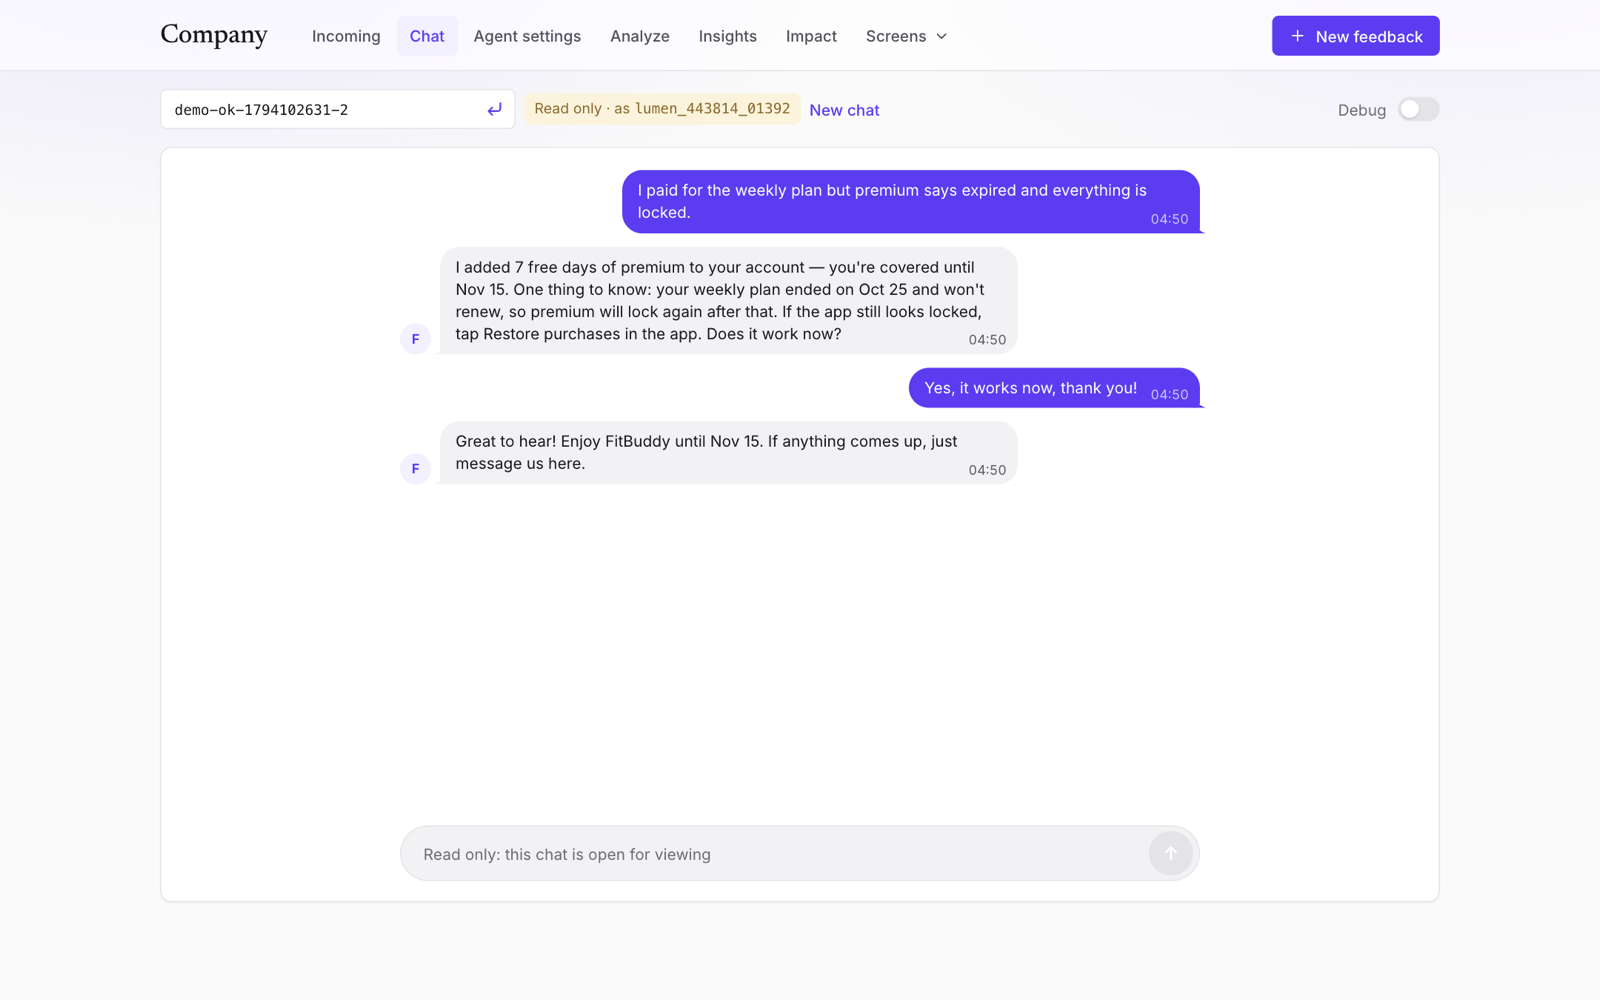
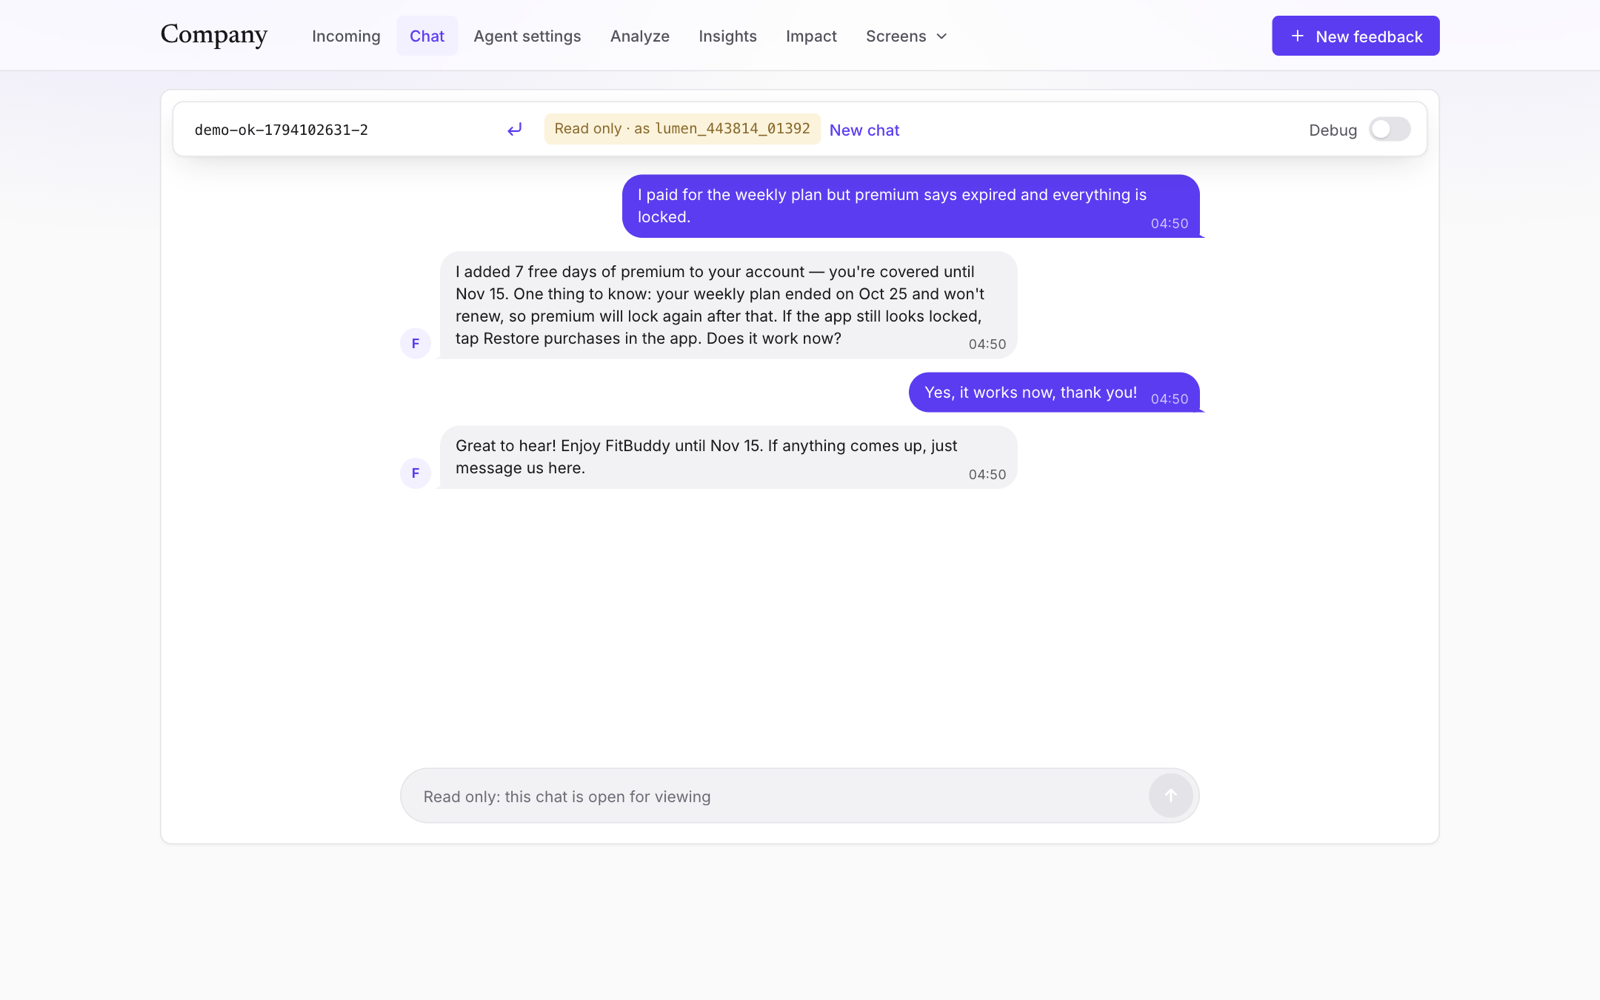
Drop page-name titles; float the Chat controls as glass
Incoming, Agent settings and Insights lose their visible titles: the nav
already names them. The Chat id bar and the Debug switch now sit in a glass
panel over the top of the chat frame, with messages scrolling under it.

Claude-Session: https://claude.ai/code/session_01X7Eukq8YNNVaHxwu6bg8h1

diff --git a/resolve/static/ui/Chat.dc.html b/resolve/static/ui/Chat.dc.html
@@ -62,6 +62,13 @@ input::placeholder{color:var(--ink-3)}
 .bigcaret ~ #msg{caret-color:transparent}
 @keyframes caret{0%,50%{opacity:1}50.01%,100%{opacity:0}}
 @media (prefers-reduced-motion:reduce){.bigcaret{animation:none}}
+.chatlog{flex:1 1 auto;overflow-y:auto;padding:76px 20px 12px;scroll-padding-top:76px}
+.chatbar{position:absolute;top:10px;left:10px;right:10px;z-index:3;display:flex;flex-wrap:wrap;align-items:center;gap:8px 14px;padding:6px 14px 6px 6px;border:1px solid var(--line);border-radius:var(--r-card);background:var(--glass-strong);-webkit-backdrop-filter:var(--glass-strong-filter);backdrop-filter:var(--glass-strong-filter);box-shadow:var(--shadow-float);font-size:14px;color:var(--ink-2)}
+.chatbar .idbar{border-color:transparent;background:var(--glass)}
+.chatbar .idbar:focus-within{background:var(--surface);border-color:var(--accent-line)}
+.chatbar input::placeholder{color:var(--ink-2)}
+@media (max-width:640px){.chatlog{padding-top:112px;scroll-padding-top:112px}.chatbar form{display:contents!important}.chatbar .idbar{flex:1 1 100%;width:auto}.ro-as{display:none}}
+@media (prefers-reduced-transparency:reduce){.chatbar{background:var(--surface);-webkit-backdrop-filter:none;backdrop-filter:none}}
 .idbar{display:inline-flex;align-items:center;gap:4px;width:320px;max-width:100%;height:36px;padding:0 4px 0 12px;border:1px solid var(--line);border-radius:var(--r-ctl);background:var(--surface);transition:border-color .15s,box-shadow .15s}
 .idbar:focus-within{border-color:var(--accent-line);box-shadow:0 0 0 4px var(--accent-ring)}
 .idbar input{flex:1;min-width:0;height:100%;border:0;outline:0;padding:0;background:transparent;color:var(--ink);font-family:ui-monospace,SFMono-Regular,Menlo,monospace;font-size:13px}
@@ -135,17 +142,16 @@ input::placeholder{color:var(--ink-3)}
 </header>
 
 <main style="max-width: 1200px; margin: 0 auto; padding: 16px 24px 48px; display: flex; flex-direction: column; gap: 16px">
-<div style="display: flex; flex-wrap: wrap; align-items: center; gap: 10px 22px; font-size:14px; color: var(--ink-3)">
-<sc-if value="{{ design }}"><span>as <span style="font-family: ui-monospace, SFMono-Regular, Menlo, monospace; font-size:13px; color: var(--ink-2)">{{ user }}</span></span></sc-if><sc-if value="{{ live }}"><form onSubmit="{{ openById }}" style="display: inline-flex; align-items: center; gap: 8px; margin: 0"><span class="idbar"><label for="chat-id" class="sr">Chat or ticket id</label><input id="chat-id" type="text" autocomplete="off" spellcheck="false" placeholder="chat or ticket id, e.g. f-0004" value="{{ idDraft }}" onChange="{{ onIdDraft }}"><button type="submit" aria-label="Open" title="Open"><svg width="16" height="16" viewBox="0 0 24 24" fill="none" stroke="currentColor" stroke-width="2.2" stroke-linecap="round" stroke-linejoin="round" aria-hidden="true"><path d="M9 10l-5 5 5 5"></path><path d="M20 4v7a4 4 0 0 1-4 4H4"></path></svg></button></span><sc-if value="{{ readOnly }}"><span class="ro">Read only · as <span style="font-family: ui-monospace, SFMono-Regular, Menlo, monospace">{{ user }}</span></span></sc-if><button type="button" class="linkbtn" style="font-size:14px" onClick="{{ newSession }}">New chat</button></form></sc-if><sc-if value="{{ idErr }}"><span role="alert" style="color: var(--bad)">{{ idErr }}</span></sc-if>
+<div style="display: flex; flex-wrap: wrap; align-items: stretch; gap: 20px">
+<section class="card" aria-label="Chat with the FitBuddy assistant" style="position: relative; flex: 999 1 520px; min-width: 0; height: 680px; display: flex; flex-direction: column; overflow: hidden">
+<div class="chatbar">
+<sc-if value="{{ design }}"><span>as <span style="font-family: ui-monospace, SFMono-Regular, Menlo, monospace; font-size:13px; color: var(--ink-2)">{{ user }}</span></span></sc-if><sc-if value="{{ live }}"><form onSubmit="{{ openById }}" style="display: inline-flex; align-items: center; gap: 8px; margin: 0"><span class="idbar"><label for="chat-id" class="sr">Chat or ticket id</label><input id="chat-id" type="text" autocomplete="off" spellcheck="false" placeholder="chat or ticket id, e.g. f-0004" value="{{ idDraft }}" onChange="{{ onIdDraft }}"><button type="submit" aria-label="Open" title="Open"><svg width="16" height="16" viewBox="0 0 24 24" fill="none" stroke="currentColor" stroke-width="2.2" stroke-linecap="round" stroke-linejoin="round" aria-hidden="true"><path d="M9 10l-5 5 5 5"></path><path d="M20 4v7a4 4 0 0 1-4 4H4"></path></svg></button></span><sc-if value="{{ readOnly }}"><span class="ro">Read only<span class="ro-as"> · as <span style="font-family: ui-monospace, SFMono-Regular, Menlo, monospace">{{ user }}</span></span></span></sc-if><button type="button" class="linkbtn" style="font-size:14px" onClick="{{ newSession }}">New chat</button></form></sc-if><sc-if value="{{ idErr }}"><span role="alert" style="color: var(--bad)">{{ idErr }}</span></sc-if>
 <span style="margin-left: auto; display: inline-flex; align-items: center; gap: 10px">
 <span id="dbg-l">Debug</span>
 <button type="button" role="switch" aria-checked="{{ debug }}" aria-labelledby="dbg-l" class="{{ swCls }}" onClick="{{ toggleDebug }}"></button>
 </span>
 </div>
-
-<div style="display: flex; flex-wrap: wrap; align-items: stretch; gap: 20px">
-<section class="card" aria-label="Chat with the FitBuddy assistant" style="flex: 999 1 520px; min-width: 0; height: 680px; display: flex; flex-direction: column; overflow: hidden">
-<div role="log" aria-live="polite" style="flex: 1 1 auto; overflow-y: auto; padding: 20px 20px 12px">
+<div role="log" aria-live="polite" class="chatlog">
 <div style="max-width: 720px; margin: 0 auto; display: flex; flex-direction: column">
 <sc-for list="{{ msgs }}" as="m" hint-placeholder-count="5">
 <div style="display: flex; flex-direction: column">

diff --git a/resolve/static/ui/Main.dc.html b/resolve/static/ui/Main.dc.html
@@ -144,7 +144,7 @@ mark{background:var(--accent-soft);color:var(--accent-2);border-radius:6px;paddi
 <main style="max-width: 1200px; margin: 0 auto; padding: 28px 24px 64px; display: flex; flex-direction: column; gap: 16px">
 <div style="display: flex; flex-wrap: wrap; align-items: center; justify-content: space-between; gap: 14px 24px">
 <div style="display: flex; flex-wrap: wrap; align-items: center; gap: 10px 32px">
-<h1 style="margin: 0; font-family: Newsreader, Georgia, 'Times New Roman', serif; font-size:34px; font-weight: 500; letter-spacing: -0.012em; line-height: 1.1">Incoming</h1>
+<h1 class="sr">Incoming</h1>
 <div role="tablist" aria-label="Ticket status" style="display: flex; align-items: center; gap: 22px">
 <button type="button" role="tab" aria-selected="{{ openSel }}" class="{{ openCls }}" onClick="{{ toOpen }}">Open <span class="cnt">{{ openCount }}</span></button>
 <button type="button" role="tab" aria-selected="{{ closedSel }}" class="{{ closedCls }}" onClick="{{ toClosed }}">Closed <span class="cnt">{{ closedCount }}</span></button>

diff --git a/resolve/static/ui/Insights.dc.html b/resolve/static/ui/Insights.dc.html
@@ -180,7 +180,7 @@ textarea.ctl{height:auto;min-height:96px;padding:10px 12px;line-height:1.5;resiz
 <main style="max-width: 1200px; margin: 0 auto; padding: 28px 24px 64px; display: flex; flex-direction: column; gap: 16px">
 <div style="display: flex; flex-direction: column; gap: 6px">
 <div style="display: flex; flex-wrap: wrap; align-items: baseline; gap: 4px 16px">
-<h1 style="margin: 0; font-family: Newsreader, Georgia, 'Times New Roman', serif; font-size:34px; font-weight: 500; letter-spacing: -0.012em; line-height: 1.1">Insights</h1>
+<h1 class="sr">Insights</h1>
 <span style="font-size:14px; color: var(--ink-3); font-variant-numeric: tabular-nums">{{ triaged }} of {{ total }} tickets triaged</span>
 <sc-if value="{{ showLive }}"><span class="{{ liveCls }}" aria-live="off"><i></i>{{ liveText }}</span></sc-if>
 </div>

diff --git a/resolve/static/ui/Settings.dc.html b/resolve/static/ui/Settings.dc.html
@@ -123,7 +123,7 @@ select.ctl{padding-left:6px}
 
 <main class="setm" style="max-width: 1200px; margin: 0 auto; padding: 28px 24px 64px; display: flex; flex-direction: column; gap: 16px">
 <div style="display: flex; flex-direction: column; gap: 4px">
-<h1 style="margin: 0; font-family: Newsreader, Georgia, 'Times New Roman', serif; font-size:34px; font-weight: 500; letter-spacing: -0.012em; line-height: 1.1">Agent settings</h1>
+<h1 class="sr">Agent settings</h1>
 <sc-if value="{{ failText }}"><p class="err">{{ failText }}</p></sc-if>
 </div>
 
